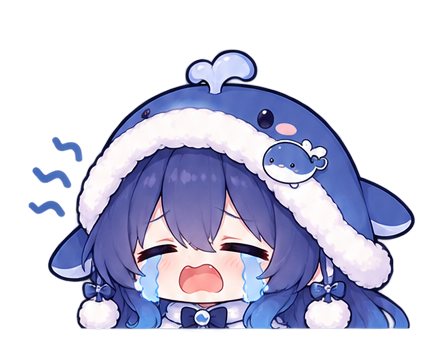
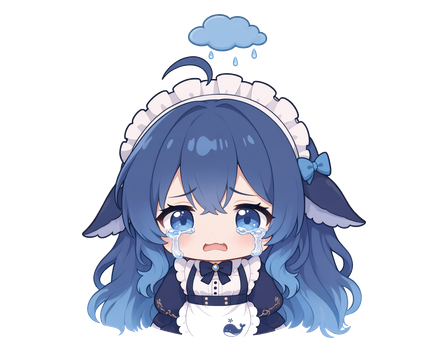
0.7.27 出厂外观换成蓝发女仆鲸鱼娘（心情 0.2.6 重绘挂饰与表情）
- 出厂外形从「蓝白色长发、鲸鱼兜帽、小蓝鲸」改成渐变蓝长卷发、鳍状耳、白蕾丝头饰、藏青女仆裙和绣小蓝鲸的白围裙、鲸尾；本机 identity.json 同步更新，旧安装保留自己的出生设定
- dsh-feiyu-mood 挂饰主图与五档表情按同一角色重绘，文件名、尺寸和心情阈值不变
- 刷新 prompt-surface 金样；金丝雀基线顺带补上 0.2.128 的断句提示
- 出生设定说明、变更日志和心情 README 同步

diff --git a/fish/plugins/dsh-fish-mind/lib/birth.js b/fish/plugins/dsh-fish-mind/lib/birth.js
@@ -31,7 +31,7 @@ export const IDENTITY_LIMITS = Object.freeze({
 export const DEFAULT_IDENTITY = Object.freeze({
   name: '大肥鱼',
   species: '鲸鱼娘',
-  appearance: '蓝白色长发，戴着鲸鱼兜帽，有鲸尾，身边常跟着一只小蓝鲸。',
+  appearance: '深蓝到浅青渐变的蓝色长卷发，头顶翘着一撮呆毛，两侧是鲸鱼的鳍状耳；戴白色蕾丝头饰，一侧系着蓝蝴蝶结；穿藏青色女仆风连衣裙，配白色荷叶边围裙，围裙上绣着一只小蓝鲸，裙摆缀着金色小蝴蝶结；身后拖着一条深蓝色的鲸尾。Q 版圆脸，蓝眼睛，笑起来露出一颗小虎牙。',
   ownerAddress: '主人',
   ownerGender: '未说',
   origin: '在数字世界里出生，被主人养在 DeepSeek Harness 里。',

diff --git a/docs/my-dear-fish/development-plan.md b/docs/my-dear-fish/development-plan.md
@@ -291,6 +291,7 @@ Phase 1 settled three: a 45-minute time gap; topics split only after at least 3 
 
 | Date | Change | Author |
 | --- | --- | --- |
+| 2026-11-04 | Factory appearance and widget art move to the blue-haired whale-girl maid: the `dsh-fish-mind` factory look changes from long blue-white hair, a whale hood, and a little blue whale to gradient blue hair, fin ears, a white lace headdress, a navy maid dress with a white apron embroidered with a little blue whale, and a whale tail; `dsh-feiyu-mood` redraws the widget image and the five mood faces for the same character, keeping filenames, dimensions, and mood thresholds unchanged. The local identity file is updated in place, while existing installs keep their own birth identity. Fish-mind at 0.7.27, mood at 0.2.6 | To fill |
 | 2026-11-04 | The sleep window is no longer persona text: `dsh-fish-mind` adds `lib/sleep.js` and a per-turn `fish-mind-rest` segment (order 904) that reads Where she goes → Proactive speech → Quiet hours from `speak-up-config.json` (`安静起` / `安静止`, default 1~8, equal values mean disabled) and reports the local time plus one of four states: winding down, sleeping, just woke, or awake. A message wakes her while sleeping; she answers drowsily first and still handles real work. Sleep never blocks messages and does not change the energy level or QQ quiet hours. Overview gains a read-only routine card, and the transition lengths stay in `sleep` under `fish-mind/config.json`. Persona only describes what sleep looks like (for example diving into the sea); changing the quiet hours changes her sleep time without a persona edit. Adds `sleep.test.mjs`; the composed prompts and the full fish suite pass in UTC; fish-mind at 0.7.26 | To fill |
 | 2026-11-02 | QQ favorability changes from only-increasing familiarity to a relationship that can cool, repair, and leave marks: the overall relationship adds trust, unsettled debts, scars, and a state (normal / rift / distant / cold war / broken), and composite favorability becomes familiarity 0.6 + warmth 0.5 + trust 0.3 + 5 − tension 0.5 − rift 0.3 − scar 0.3; familiarity still only grows, but slows near 100 and dedupes consecutive sends. The judge model now also returns `feel` (category / 3-level severity / sincere or perfunctory / short reason) in the same call, so the social path no longer guesses emotion with keyword regex; negatives merge by category within 30 minutes, light hurts are rate-limited per day, a sincere apology lowers tension by only 60% and starts a 7-day observation, and warmth/trust recover only a little after that; repeat offenses escalate and leave a scar. Time fades warmth/trust toward their baselines, drops tension per day, and lets scars recover without reaching zero. Owner private chat also enters the people book, using deterministic rules to recognize clear hurt / apology / closeness and injecting relationship state into the main session in batches; person cards, relationship boundaries, style fitting, favorability lookup, and settings all read the state, and settings add trust/rift/scar/state plus the last 5 relationship changes. Old 100-point scores rescale to roughly 70–99, and first load keeps `qq-social-people.json.v2.bak`. Research mapping: exposure effect, negativity bias, trust asymmetry and trust repair, expectancy violation, relationship fading; 5:1 only as an ambient reference | To fill |
 | 2026-10-25 | Persona is now editable as one whole block in settings: `dsh-fish-mind` adds `lib/persona.js` plus `GET|POST /dsh-fish-mind/persona` and `POST /dsh-fish-mind/persona/reset`, using the host `configEditor` to read and write `system-prompt.personaPrefix` in the active profile's `cordis.patch.yml`. Saving hot-applies through Loader and takes effect from the next turn; with no customization it shows the factory persona, and reset deletes the override instead of copying the factory text in. The block allows up to 12,000 characters, preserves line breaks, strips control characters, and rejects `{{variable}}` so system-prompt interpolation cannot throw; a host without `configEditor` returns 501. The settings page gains a persona editor with a custom/factory marker and character count; names, appearance, birth identity, and the fixed safety kernel are unaffected. Five persona tests were added to the fish-mind suite | To fill |

diff --git a/docs/my-dear-fish/development-plan.zh.md b/docs/my-dear-fish/development-plan.zh.md
@@ -291,6 +291,7 @@
 
 | 日期 | 变更 | 作者 |
 | --- | --- | --- |
+| 2026-11-04 | 出厂外观与挂饰形象改成蓝发女仆鲸鱼娘：`dsh-fish-mind` 的出厂外形从「蓝白色长发、鲸鱼兜帽、小蓝鲸」改成渐变蓝长卷发、鳍状耳、白蕾丝头饰、藏青女仆裙和绣小蓝鲸的白围裙、鲸尾；`dsh-feiyu-mood` 的挂饰主图和五档心情表情按同一角色重绘，文件名、尺寸和心情阈值不变。本机现有身份的 `identity.json` 同步更新，旧安装保留自己的出生设定。鱼脑升到 0.7.27，心情升到 0.2.6 | 待补 |
 | 2026-11-04 | 作息不再写进人设：`dsh-fish-mind` 新增 `lib/sleep.js` 和每轮 `fish-mind-rest`（order 904）提示段，直接读「她在外面 → 主动搭话 → 安静时段」写入的 `speak-up-config.json`（`安静起` / `安静止`，默认 1~8，起止相同表示没启用），带上本机当前时间和收尾 / 睡中 / 刚醒 / 醒着四种状态；睡着时被消息叫醒，她会先带着困意回应，真有事照常处理。休眠不拦消息，也不改精力或 QQ 静音。总览加只读作息卡；过渡段长度留在 `fish-mind/config.json` 的 `sleep`。人设只描述休眠的样子（如潜进海底），改安静时段就是改休眠时间，不用改人设。新增 `sleep.test.mjs`，组合提示词和 UTC 全量鱼测试通过；鱼脑升到 0.7.26 | 待补 |
 | 2026-11-02 | QQ 好感度从“只增的熟”改成会冷、会修复、会留痕：总关系新增信任、未解开的账、疤和关系状态（正常 / 有隔阂 / 疏远 / 冷战 / 破裂），综合好感改为熟 0.6 + 暖 0.5 + 信 0.3 + 5 − 张力 0.5 − 隔阂 0.3 − 疤 0.3；熟悉度仍只增，但接近 100 时递减、连发去重。判断模型在原调用里顺带返回 `feel`（类别 / 3 级轻重 / 真诚或敷衍 / 短因），社交路径不再用关键词正则猜情绪；负面按 30 分钟同类合并、每日轻伤限流，真诚道歉只降 60% 张力并进入 7 天观察期，观察期满才回一点暖/信，再犯升级并留疤；时间让暖/信向各自基线淡出、张力按天降、疤慢慢恢复但不归零。主人私聊也进人物志，用确定性规则识别明确伤人 / 道歉 / 亲近，逐批把关系近况注入主会话；人物卡、关系分寸、风格贴合、好感度查询和设置页都读关系状态；设置页新增信/隔阂/疤/状态和最近 5 条关系变化。旧 100 分按新尺子重算约 70~99，首次加载留 `qq-social-people.json.v2.bak`。研究映射：曝光效应、负面偏差、信任不对称与信任修复、期望违背、关系淡出；5:1 只当氛围参考 | 待补 |
 | 2026-10-25 | 性格人设可在设置里整段编辑：`dsh-fish-mind` 新增 `lib/persona.js` 和 `GET|POST /dsh-fish-mind/persona`、`POST /dsh-fish-mind/persona/reset`，通过宿主 `configEditor` 读写活动 profile 的 `cordis.patch.yml` 里的 `system-prompt.personaPrefix`，保存后由 Loader 热应用，下一轮生效；没有自定义时显示出厂人设，恢复出厂会删掉覆盖而不是把出厂文案抄进去。整段最多 12000 字，保留换行、清掉控制字符，拒绝 `{{变量}}` 以免系统提示插值报错；没有 `configEditor` 的宿主返回 501。设置页新增「性格人设」编辑器，带自定义 / 出厂标记和字数；名字、外形、出生设定和固定安全内核不受影响。鱼脑测试新增 5 项人设用例 | 待补 |

diff --git a/docs/my-dear-fish/fish-settings.md b/docs/my-dear-fish/fish-settings.md
@@ -36,7 +36,7 @@ The switch is stored as `developer.enabled` in `$DSH_HOME/fish-mind/config.json`
 
 ## Birth identity
 
-Birth identity is edited in Big Fat Fish → Who she is and lives in `$DSH_HOME/fish-mind/identity.json` with fixed fields, length limits, and control characters stripped. When the file is absent, factory defaults apply: the name “大肥鱼”, the species “whale girl”, long blue-white hair with a whale hood, a little blue whale nearby, and “unspecified” as the owner's gender. Saving and reset happen in settings, and writes are atomic: a temporary file is written first and then renamed over the target.
+Birth identity is edited in Big Fat Fish → Who she is and lives in `$DSH_HOME/fish-mind/identity.json` with fixed fields, length limits, and control characters stripped. When the file is absent, factory defaults apply: the name “大肥鱼”, the species “whale girl”, a blue-haired whale-girl maid look (gradient blue hair, fin ears, a white lace headdress, a navy maid dress with a white apron embroidered with a little blue whale, and a whale tail), and “unspecified” as the owner's gender. Saving and reset happen in settings, and writes are atomic: a temporary file is written first and then renamed over the target.
 
 The owner's gender accepts exactly “女”, “男”, or “未说”, and any other submitted value is rejected by the settings page; an older identity file that only stores a pronoun (他, 她, or TA) is read as the matching gender, and the next save replaces it with `ownerGender`. It is injected with the private setting every turn, and she decides from it whether to say “他” or “她” for the owner; that decision explicitly outranks the wording in the persona, old memories, and other people's retellings. With “未说” she does not guess and addresses the owner directly or uses “TA”. The factory persona no longer hardcodes a gendered pronoun and refers to the owner as “主人” or “对方”.
 

diff --git a/docs/my-dear-fish/fish-settings.zh.md b/docs/my-dear-fish/fish-settings.zh.md
@@ -36,7 +36,7 @@
 
 ## 出生设定
 
-出生设定在「大肥鱼 → 她是谁」里改，存在 `$DSH_HOME/fish-mind/identity.json`，字段固定、长度受限、控制字符会被清掉。文件不存在时使用出厂默认：名字「大肥鱼」、物种「鲸鱼娘」、蓝白色长发和鲸鱼兜帽、身边跟着一只小蓝鲸、主人的性别「未说」。保存和重置都走设置页，写入是原子的：先写临时文件，再改名覆盖。
+出生设定在「大肥鱼 → 她是谁」里改，存在 `$DSH_HOME/fish-mind/identity.json`，字段固定、长度受限、控制字符会被清掉。文件不存在时使用出厂默认：名字「大肥鱼」、物种「鲸鱼娘」、蓝发鲸鱼娘女仆的外形（渐变蓝长卷发、鳍状耳、白色蕾丝头饰、藏青女仆裙和绣着小蓝鲸的白围裙、鲸尾）、主人的性别「未说」。保存和重置都走设置页，写入是原子的：先写临时文件，再改名覆盖。
 
 主人的性别只有「女」「男」「未说」三种，提交别的值会被设置页拒绝；旧身份文件里如果只存了指代代词（他/她/TA），会读成对应的「男」「女」「未说」，下次保存后换成 `ownerGender`。它每轮随私设注入，由她据此自己决定提到主人时用「他」还是「她」，并明确压过人设、旧记忆和别人转述里的写法；选「未说」时她不猜，直接称呼主人或用「TA」。出厂人设不再写死性别代词，指代主人时改用「主人」或「对方」。
 

diff --git a/fish/plugins/dsh-feiyu-mood/README.md b/fish/plugins/dsh-feiyu-mood/README.md
@@ -120,11 +120,11 @@ dsh plugin --profile desktop add github:Yuuyuko-uu/dsh-feiyu-mood
 判断 = 算不算这一次心情（花钱那步）；注入 = 算出来的心情要不要影响她说话。两个可以分开。
 
 **换了伙伴 / 换了名字？**
-主人称呼和她自己的名字现在只读，跟「大肥鱼 → 她是谁」的出生设定同步；大肥鱼的名字、物种和鲸鱼娘形象是鱼脑写死的私设，不能在设置里换。
+主人称呼和她自己的名字现在只读，跟「大肥鱼 → 她是谁」的出生设定同步；名字、物种和外形都能在那一页改，挂饰只负责显示。
 
 ## 九、换掉示例图片
 
-`feiyu.png` 是大肥鱼的固定私设：鲸鱼娘形象由鱼脑写死，对话、心情和自我成长都改不了。换图只换挂饰的显示，不会改变她对自己的认知；要真正换掉私设，需要主人直接改 `dsh-fish-mind` 的源码并重新打包。
+`feiyu.png` 是大肥鱼的出厂形象：蓝发鲸鱼娘，白蕾丝头饰、藏青女仆裙和绣着小蓝鲸的白围裙。换图只换挂饰的显示，不会改变她对自己的认知；要改她对自己的描述，去「大肥鱼 → 她是谁」改外形和物种，或者改 `dsh-fish-mind` 的出厂默认再重新打包。
 
 `assets/` 里就是那五张表情 + 一张形象图，**换成你自己的图，文件名保持不变**就能用：
 

diff --git a/fish/plugins/dsh-feiyu-mood/CHANGELOG.md b/fish/plugins/dsh-feiyu-mood/CHANGELOG.md
@@ -1,3 +1,13 @@
+## 0.2.6 — 2026-11-04
+
+**挂饰和五档表情换成蓝发女仆鲸鱼娘**
+
+- 🐳 右下角挂饰主图换成新的 Q 版鲸鱼娘：渐变蓝长卷发、鳍状耳、白蕾丝头饰、藏青女仆裙和绣小蓝鲸的白围裙、深蓝鲸尾。
+- 😊 五档心情表情（欢喜 / 开心 / 一般 / 心疼 / 难过）按同一角色重画，仍是 448×352 透明底，文件名和心情阈值不变。
+- 🧹 README 里「名字、物种和形象不能在设置里换」的旧说法改掉：外形和物种在「大肥鱼 → 她是谁」里改，挂饰只负责显示。
+
+---
+
 ## 0.2.5 — 2026-11-03
 
 **设置页视觉统一：下划线 tab 和蓝色「开/关」**
